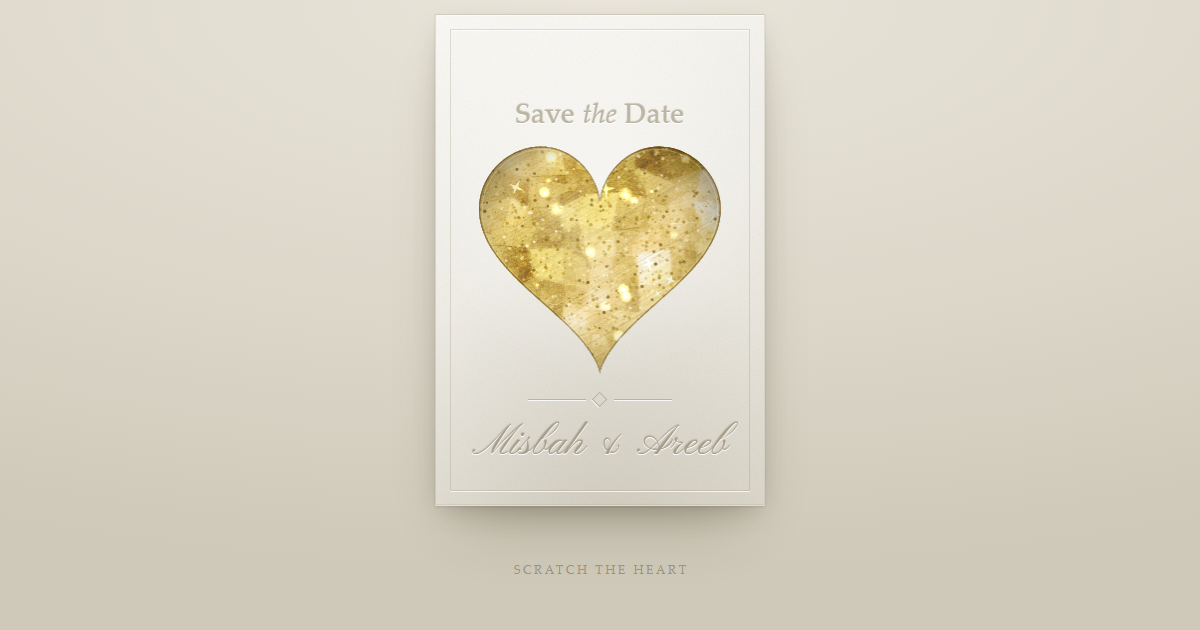
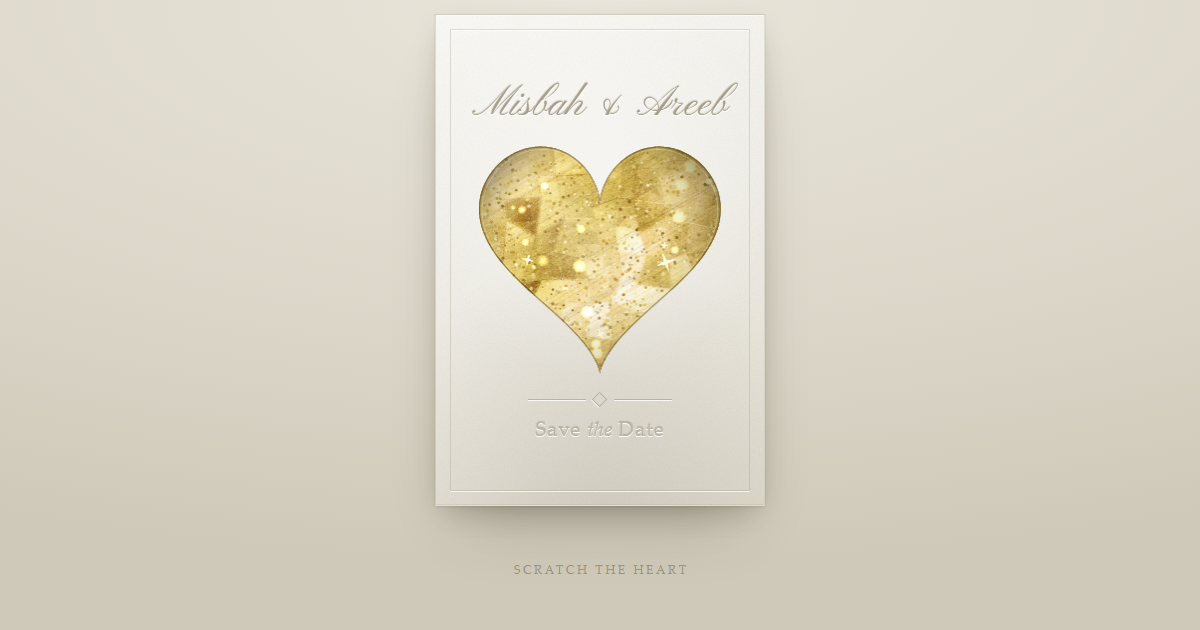
Swap the names and the save-the-date line
The couple's names move above the heart and become the headline; "Save
the Date" drops beneath the rule as the colophon. Sizes follow the new
hierarchy — the script goes up to 12.4cqw, the largest that still sets
on one line inside the embossed border, and the serif line comes down
to 6.2cqw with a little tracking so it reads as subordinate.

The names also take the h1, since they are now the primary line.

Changed region(s): [[0.4008, 0.1206, 0.6167, 0.573], [0.4008, 0.6635, 0.6167, 0.7238]]

diff --git a/index.html b/index.html
@@ -155,14 +155,14 @@
       0 -1px 1px var(--deboss-dark);
   }
 
+  /* Now the subordinate line under the rule, not the headline — sized down and
+     tracked slightly so it reads as the colophon it has become. */
   .eyebrow{
     margin:0;
-    font-size:8.6cqw;
+    font-size:6.2cqw;
     font-weight:400;
     line-height:1;
-    letter-spacing:.014em;
-    align-self:end;
-    padding-bottom:6cqw;
+    letter-spacing:.05em;
     text-wrap:balance;
   }
   .eyebrow i{ font-style:italic; letter-spacing:0; }
@@ -197,16 +197,21 @@
     box-shadow:0 1px 0 rgba(255,255,255,.75);
   }
 
-  /* Script wants tight tracking and a larger size — the tracked-out small caps
-     that suited the old setting would pull the joins apart. */
+  /* The headline now. Script wants tight tracking and a large size — the
+     tracked-out small caps that suited the old setting would pull the joins
+     apart. Sits on the baseline of the top row, breathing above the heart. */
   .names{
     margin:0;
+    align-self:end;
+    padding-bottom:5cqw;
     font-family:'Pinyon Script','Snell Roundhand','Edwardian Script ITC',cursive;
+    /* the largest that still sets on one line inside the embossed rule — any
+       bigger and the ampersand orphans onto a second line */
     font-size:12.4cqw;
     font-weight:400;
-    line-height:1.18;
+    line-height:1.16;
+    white-space:nowrap;
     letter-spacing:.012em;
-    padding-top:.6cqw;
     color:var(--relief-deep);
     text-shadow:
       0 1px 0 var(--deboss-light),
@@ -463,7 +468,7 @@
   <div class="vignette"></div>
 
   <div class="stack">
-    <h1 class="eyebrow deboss">Save <i>the</i> Date</h1>
+    <h1 class="names deboss">Misbah &amp; Areeb</h1>
 
     <div class="heart">
       <div class="bloom"></div>
@@ -484,7 +489,7 @@
 
     <div class="colophon">
       <div class="rule deboss" aria-hidden="true"><span></span><b></b><span></span></div>
-      <p class="names">Misbah &amp; Areeb</p>
+      <p class="eyebrow deboss">Save <i>the</i> Date</p>
     </div>
   </div>
 </main>
